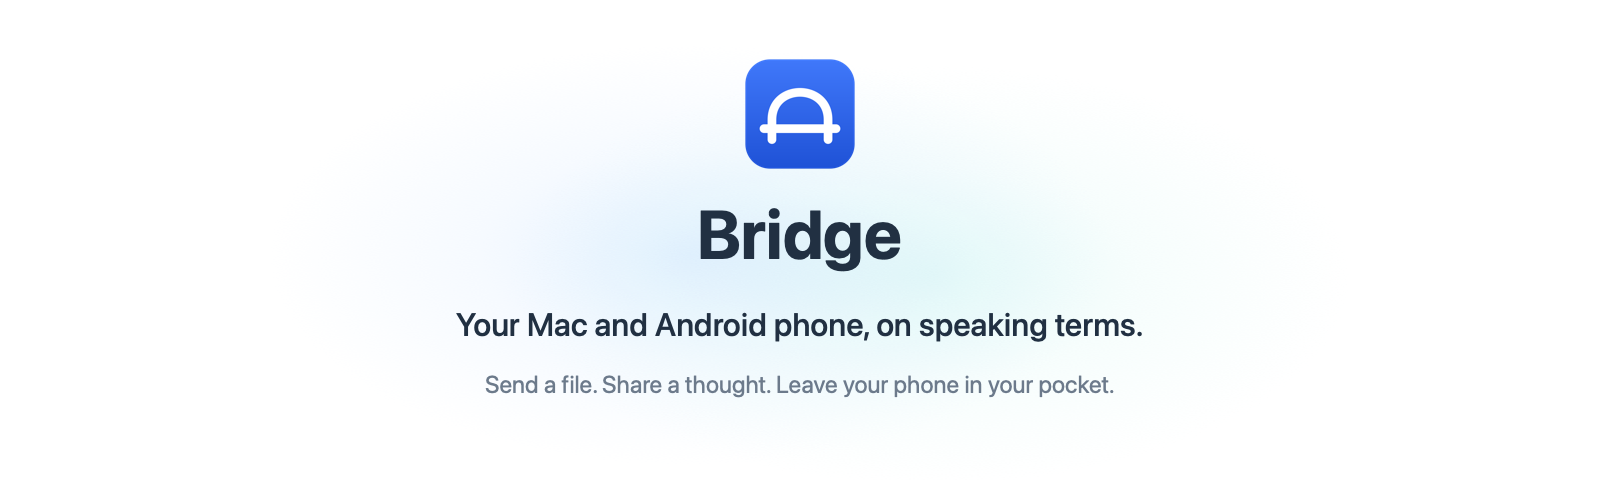
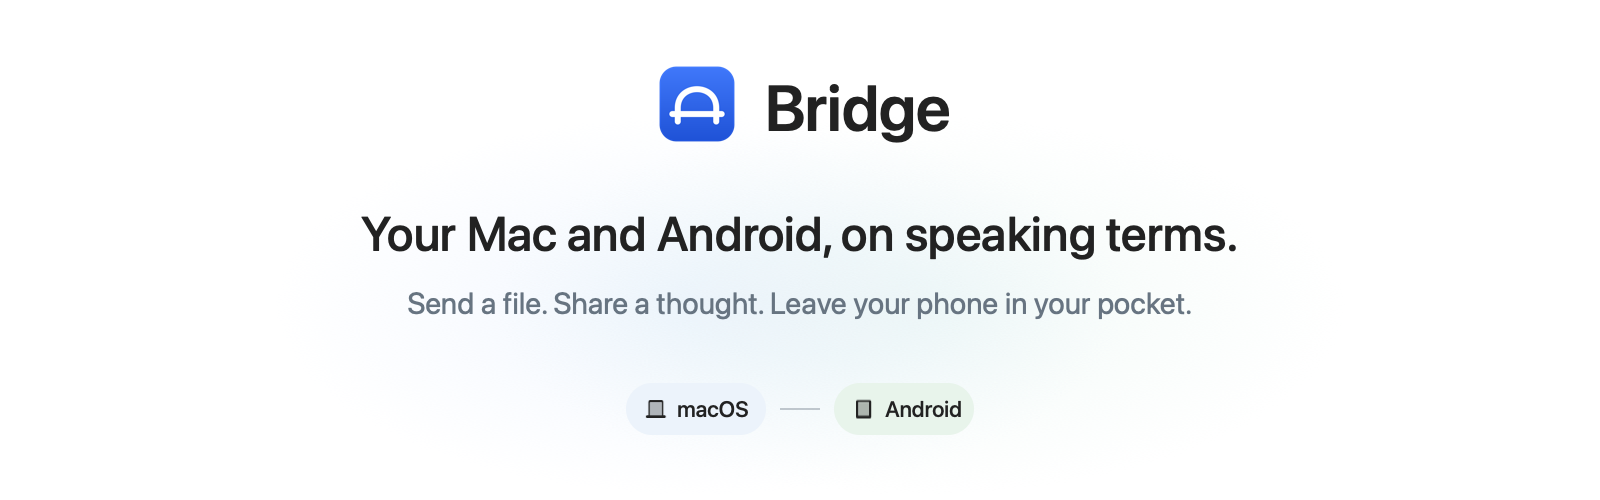
Refine README with Apple and Android inspired styling

diff --git a/scripts/render-readme-header.swift b/scripts/render-readme-header.swift
@@ -1,0 +1,59 @@
+// Run from the repository root: swift -module-cache-path /tmp/bridge-header-cache scripts/render-readme-header.swift
+// Original typography artwork, rendered with AppKit and the existing Bridge icon.
+import AppKit
+let root = URL(fileURLWithPath: FileManager.default.currentDirectoryPath)
+for mobile in [false, true] {
+ for dark in [true, false] {
+  let width = mobile ? 780 : 1600, height = mobile ? 650 : 500
+  let bitmap = NSBitmapImageRep(bitmapDataPlanes:nil,pixelsWide:width,pixelsHigh:height,bitsPerSample:8,samplesPerPixel:4,hasAlpha:true,isPlanar:false,colorSpaceName:.deviceRGB,bytesPerRow:0,bitsPerPixel:0)!
+  NSGraphicsContext.saveGraphicsState()
+  NSGraphicsContext.current = NSGraphicsContext(bitmapImageRep:bitmap)
+  let cg = NSGraphicsContext.current!.cgContext
+  let background = dark ? NSColor(calibratedRed:13.0/255,green:17.0/255,blue:23.0/255,alpha:1) : NSColor.white
+  background.setFill()
+  NSRect(x:0,y:0,width:width,height:height).fill()
+  let center = CGFloat(width)/2
+  let primary = dark ? NSColor(calibratedWhite:0.96,alpha:1) : NSColor(calibratedWhite:0.10,alpha:1)
+  let secondary = dark ? NSColor(calibratedRed:0.68,green:0.73,blue:0.78,alpha:1) : NSColor(calibratedRed:0.33,green:0.38,blue:0.43,alpha:1)
+  // Soft color fades into the GitHub light/dark reading surface.
+  for (offset,r,g,b) in [(-100.0,0.25,0.48,0.96),(120.0,0.33,0.72,0.56)] {
+   cg.saveGState(); cg.translateBy(x:center+offset,y:mobile ? 235 : 195); cg.scaleBy(x:mobile ? 285 : 425,y:mobile ? 230 : 190)
+   let colors = [CGColor(red:r,green:g,blue:b,alpha:dark ? 0.11 : 0.08),CGColor(red:r,green:g,blue:b,alpha:0)] as CFArray
+   cg.drawRadialGradient(CGGradient(colorsSpace:CGColorSpaceCreateDeviceRGB(),colors:colors,locations:[0,1])!,startCenter:.zero,startRadius:0,endCenter:.zero,endRadius:1,options:[])
+   cg.restoreGState()
+  }
+  func label(_ text:String, x:CGFloat? = nil, y:CGFloat, size:CGFloat, weight:NSFont.Weight = .regular, color:NSColor? = nil) {
+   let line=NSAttributedString(string:text,attributes:[.font:NSFont.systemFont(ofSize:size,weight:weight),.foregroundColor:color ?? primary])
+   line.draw(at:NSPoint(x:x ?? (CGFloat(width)-line.size().width)/2,y:y))
+  }
+  let brandY:CGFloat = mobile ? 486 : 352
+  NSImage(contentsOf:root.appendingPathComponent("mac/Resources/BridgeAppIcon.png"))!.draw(in:NSRect(x:center-147,y:brandY,width:88,height:88))
+  label("Bridge",x:center-35,y:brandY+3,size:64,weight:.semibold)
+  if mobile {
+   label("Your Mac and Android,",y:365,size:48,weight:.medium)
+   label("on speaking terms.",y:304,size:48,weight:.medium)
+   label("Send a file. Share a thought.",y:224,size:30,color:secondary)
+   label("Leave your phone in your pocket.",y:180,size:30,color:secondary)
+  } else {
+   label("Your Mac and Android, on speaking terms.",y:239,size:48,weight:.medium)
+   label("Send a file. Share a thought. Leave your phone in your pocket.",y:180,size:30,color:secondary)
+  }
+  let pillY:CGFloat = mobile ? 67 : 65
+  for (offset,title,symbol,green) in [(-174.0,"macOS","laptopcomputer",false),(34.0,"Android","smartphone",true)] {
+   let rect=NSRect(x:center+offset,y:pillY,width:140,height:52)
+   (green ? (dark ? NSColor(calibratedRed:0.14,green:0.23,blue:0.19,alpha:1) : NSColor(calibratedRed:0.89,green:0.95,blue:0.90,alpha:1)) : (dark ? NSColor(calibratedRed:0.16,green:0.20,blue:0.26,alpha:1) : NSColor(calibratedRed:0.91,green:0.94,blue:0.98,alpha:1))).setFill()
+   NSBezierPath(roundedRect:rect,xRadius:26,yRadius:26).fill()
+   let icon=NSImage(systemSymbolName:symbol,accessibilityDescription:nil)!.withSymbolConfiguration(NSImage.SymbolConfiguration(pointSize:22,weight:.medium))!
+   let tinted=NSImage(size:icon.size,flipped:false) { bounds in
+    primary.setFill(); bounds.fill(); icon.draw(in:bounds,from:.zero,operation:.destinationIn,fraction:1); return true
+   }
+   tinted.draw(in:NSRect(x:rect.minX+18,y:pillY+15,width:24,height:22))
+   label(title,x:rect.minX+51,y:pillY+13,size:22,weight:.medium)
+  }
+  secondary.withAlphaComponent(0.5).setStroke()
+  let line=NSBezierPath(); line.lineWidth=1.5; line.move(to:NSPoint(x:center-20,y:pillY+26)); line.line(to:NSPoint(x:center+20,y:pillY+26)); line.stroke()
+  NSGraphicsContext.restoreGraphicsState()
+  let name="bridge-header-\(dark ? "dark" : "light")\(mobile ? "-mobile" : "").png"
+  try bitmap.representation(using:.png,properties:[:])!.write(to:root.appendingPathComponent("docs/assets/"+name))
+ }
+}

diff --git a/README.md b/README.md
@@ -1,9 +1,11 @@
 <div align="center">
 
 <picture>
+  <source media="(prefers-color-scheme: dark) and (max-width: 600px)" srcset="docs/assets/bridge-header-dark-mobile.png" />
+  <source media="(max-width: 600px)" srcset="docs/assets/bridge-header-light-mobile.png" />
   <source media="(prefers-color-scheme: dark)" srcset="docs/assets/bridge-header-dark.png" />
   <source media="(prefers-color-scheme: light)" srcset="docs/assets/bridge-header-light.png" />
-  <img src="docs/assets/bridge-header-light.png" width="800" alt="Bridge — Your Mac and Android phone, on speaking terms. Send a file. Share a thought. Leave your phone in your pocket." />
+  <img src="docs/assets/bridge-header-light.png" width="800" alt="Bridge — Your Mac and Android, on speaking terms. Send a file. Share a thought. Leave your phone in your pocket." />
 </picture>
 
 [![macOS](https://img.shields.io/badge/macOS-27%2B-111827?style=flat-square&logo=apple&logoColor=white)](docs/BUILDING.md)
